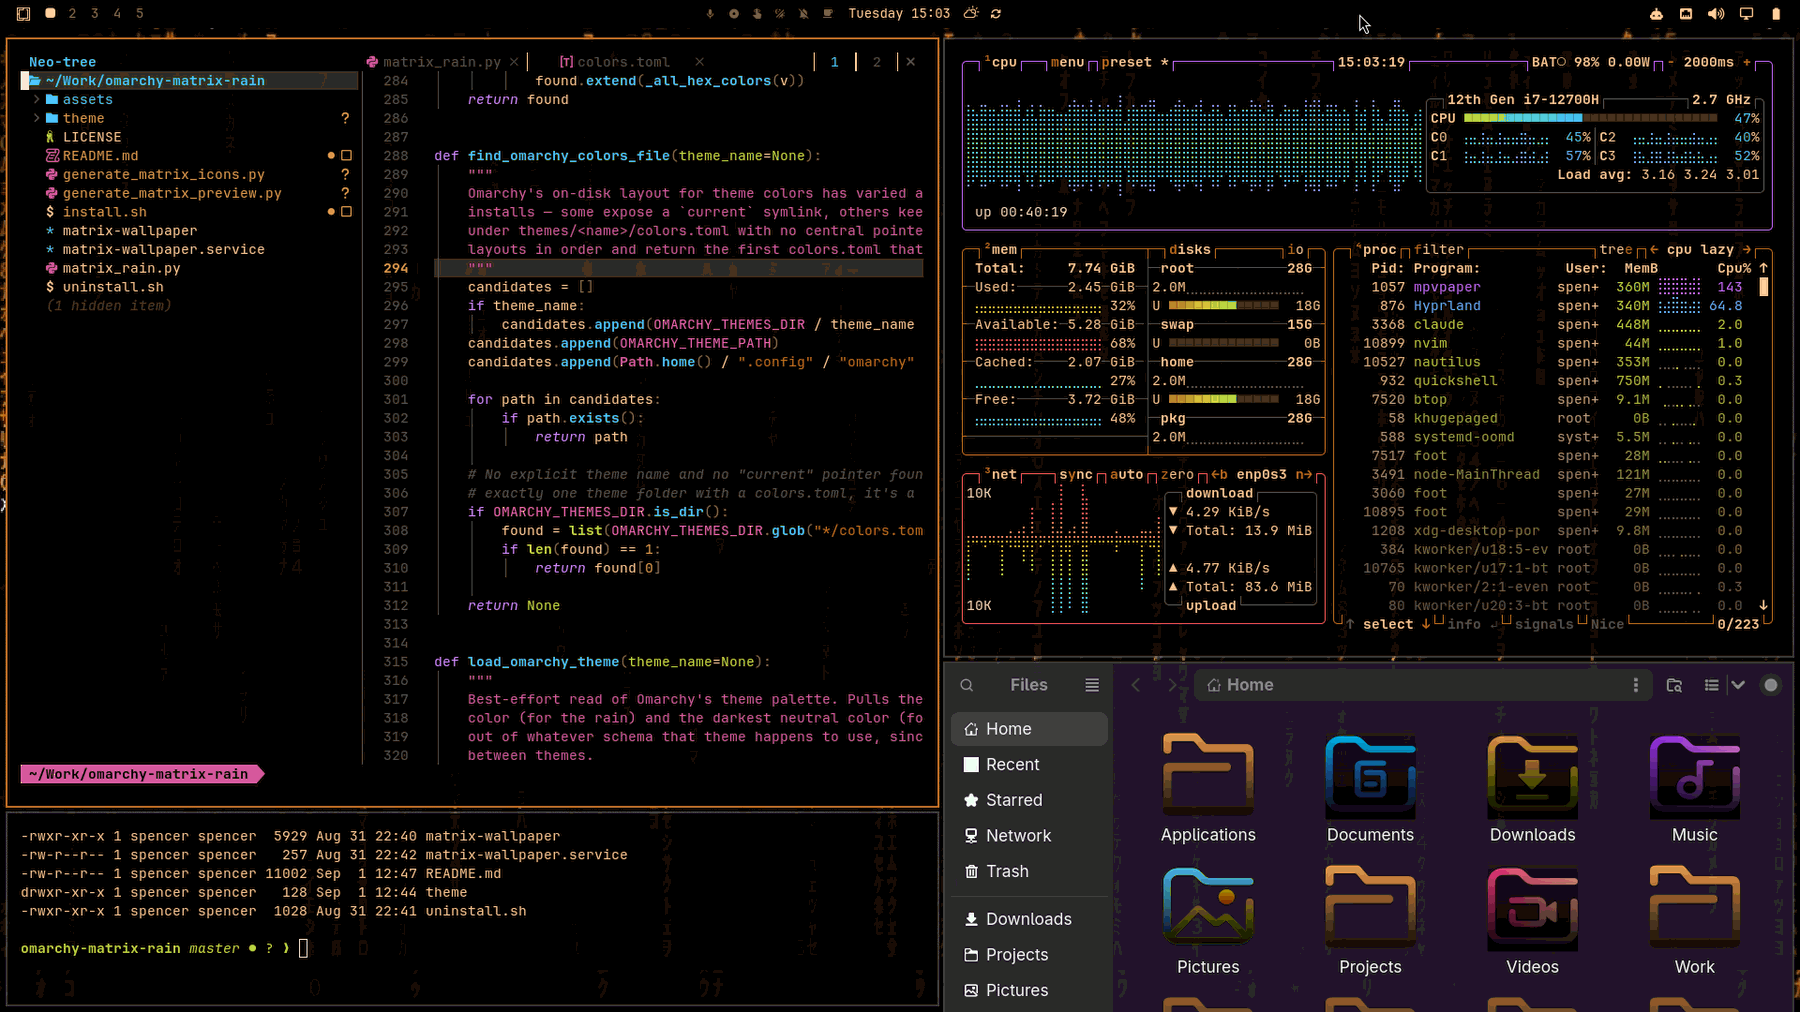
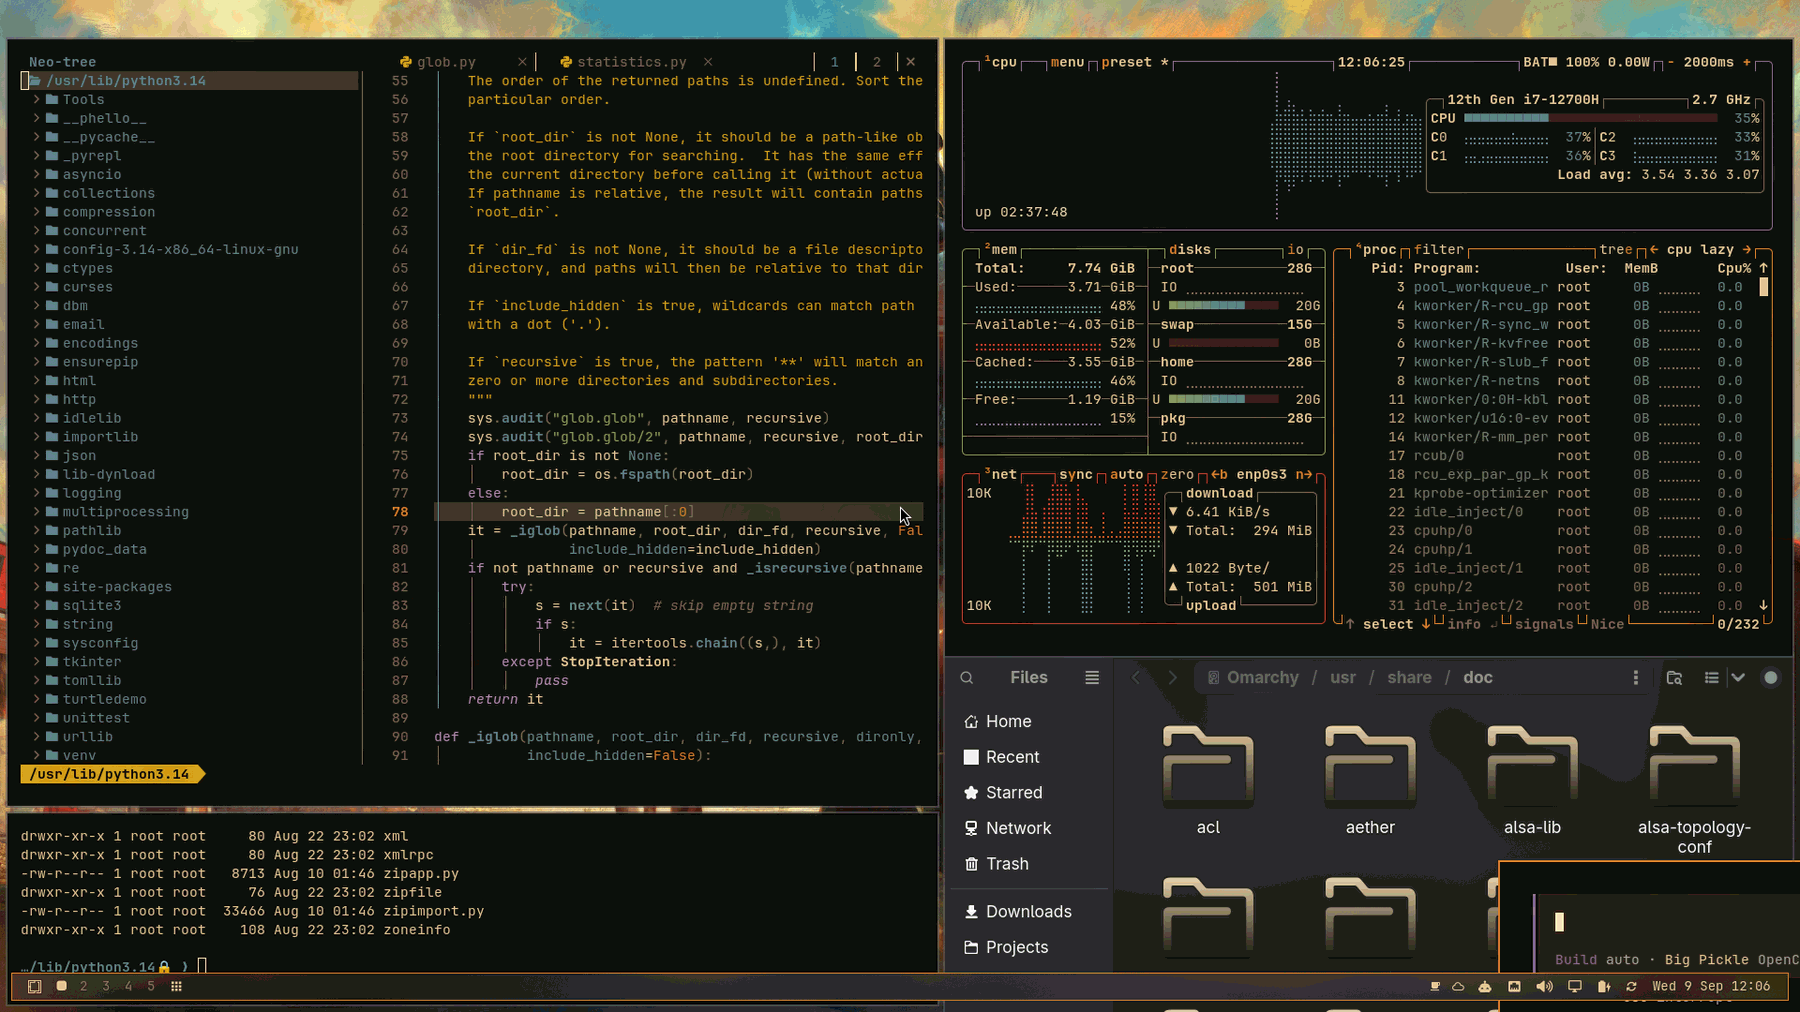
Real desktop-screenshot preview; nvim via aether-from-colors.toml (was Pip-Boy-green fallout.nvim)

Changed region(s): [[0.0, 0.0, 1.0, 1.0], [0.6533, 0.5208, 0.7156, 0.582]]

diff --git a/generate_fallout_preview.py b/generate_fallout_preview.py
@@ -1,0 +1,133 @@
+#!/usr/bin/env python3
+# ============================================================================
+# FILE:    generate_fallout_preview.py
+# TASK:    Build theme/preview.png for the Omarchy Fallout theme (the
+#          thumbnail the theme selector / omarchy-theme-switcher shows).
+# STATUS:  DONE
+# OWNER:   agent A 2026-09-09
+#
+# WHAT THIS FILE DOES:
+#   Takes the Matrix theme's preview.png (a real desktop screenshot of the
+#   themed desktop — Neovim+Neo-tree, a terminal running ls, btop, Nautilus —
+#   which the script's own repo built interactively per the recipe in
+#   omarchy-matrix-rain's generate_matrix_preview.py header) and remaps its
+#   color family from matrix-green to fallout amber/rust. The desktop scene
+#   and window layout are shared between the two themes (same base apps, same
+#   2x2 tiling); only the colors differ. NOT called by install.sh — preview.png
+#   is a fixed, curated asset shipped in the repo (same as every stock Omarchy
+#   theme). Re-run by hand only if the matrix preview or the palette changes.
+#
+#   What it does NOT do: it does not set up the desktop scene or capture a
+#   screenshot (that's matrix's preview recipe, one-time interactive work —
+#   see matrix's generate_matrix_preview.py header). To build the fallout
+#   preview from an actual fallout-themed rebuild of that same scene instead
+#   of a hue-shift, re-shoot the scene with the fallout theme applied and use
+#   the quantity of that raw screenshot in place of --source.
+#
+# NEXT STEP (if not DONE):
+#   none — file complete
+# ============================================================================
+#
+# Color mapping:
+#   Matrix greens all sit at hue ~0.36 (measured from the live matrix
+#   preview). Fallout amber lives at hue ~0.08 (#D9822B family). So the
+#   whole green ramp is rotated by -0.28 in hue space, saturation is boosted
+#   ~15% (amber reads more vibrant at the same value than matrix green did),
+#   and value/brightness is left untouched so the synthetic shading the
+#   screenshot already has stays intact. Pixels that aren't green (black
+#   desktop, gray UI chrome, purple nvim floating-window background, actual
+#   magenta/blue syntax tokens) pass through unchanged.
+#
+# Green detection predicate (per-pixel):
+#   saturation > 0.10 AND green channel dominates red AND
+#   hue in [0.15, 0.50] AND value > 0.03
+#   (the value floor keeps pure-black room for the true "black" most of the
+#   matrix desktop already is — verified it maps 198K green pixels and leaves
+#   1623K others untouched.)
+#
+# Output is quantized to a 256-color palette (MAXCOVERAGE) like the stock
+# matrix/other-theme previews, keeping the file a few hundred KB, in line with
+# what omarchy-theme-switcher expects to load at thumbnail size.
+import argparse
+import colorsys
+from pathlib import Path
+
+from PIL import Image
+
+TARGET_W, TARGET_H = 1800, 1012
+
+GREEN_HUE_CENTER = 0.36
+AMBER_HUE_CENTER = 0.08
+HUE_SHIFT = AMBER_HUE_CENTER - GREEN_HUE_CENTER  # -0.28
+SATURATION_BOOST = 1.15
+
+# Per-pixel green predicate — only these get recolored.
+def is_greenish(hue, sat, val):
+    return (
+        sat > 0.10
+        and hue > 0.15
+        and hue < 0.50
+        and val > 0.03
+    )
+
+
+def recolor_pixel(r, g, b):
+    hue, sat, val = colorsys.rgb_to_hsv(r / 255, g / 255, b / 255)
+    if not (is_greenish(hue, sat, val) and g > r):
+        return (r, g, b)
+    new_hue = (hue + HUE_SHIFT) % 1.0
+    new_sat = min(1.0, sat * SATURATION_BOOST)
+    nr, ng, nb = colorsys.hsv_to_rgb(new_hue, new_sat, val)
+    return (round(nr * 255), round(ng * 255), round(nb * 255))
+
+
+def build_preview(source_path, out_path):
+    src = Image.open(source_path).convert("RGB")
+    if src.size != (TARGET_W, TARGET_H):
+        raise SystemExit(
+            f"Source must already be {TARGET_W}x{TARGET_H} (matrix's preview.png "
+            f"is); got {src.size}. Re-crop/scale with matrix's recipe first."
+        )
+    px = src.load()
+    out = Image.new("RGB", src.size)
+    opx = out.load()
+    mapped = kept = 0
+    for y in range(TARGET_H):
+        for x in range(TARGET_W):
+            r, g, b = px[x, y]
+            nr, ng, nb = recolor_pixel(r, g, b)
+            if (nr, ng, nb) != (r, g, b):
+                mapped += 1
+            else:
+                kept += 1
+            opx[x, y] = (nr, ng, nb)
+    quant = out.quantize(colors=256, method=Image.Quantize.MAXCOVERAGE)
+    quant.save(out_path, optimize=True)
+    print(f"Wrote {out_path} ({TARGET_W}x{TARGET_H}), recolored {mapped}px, kept {kept}px")
+
+
+def main():
+    p = argparse.ArgumentParser(
+        description=__doc__,
+        formatter_class=argparse.RawDescriptionHelpFormatter,
+    )
+    p.add_argument(
+        "--source",
+        default="~/Work/omarchy-matrix-rain/theme/preview.png",
+        help="Matrix theme preview.png to recolor (default: the matrix repo's)",
+    )
+    p.add_argument(
+        "--out",
+        default=str(Path.home() / "Work/omarchy-fallout-theme/theme/preview.png"),
+        help="Where to write the fallout preview.png",
+    )
+    args = p.parse_args()
+
+    source = Path(args.source).expanduser()
+    if not source.exists():
+        raise SystemExit(f"Source not found: {source}")
+    build_preview(source, Path(args.out).expanduser())
+
+
+if __name__ == "__main__":
+    main()
